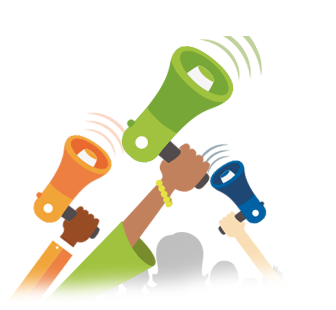
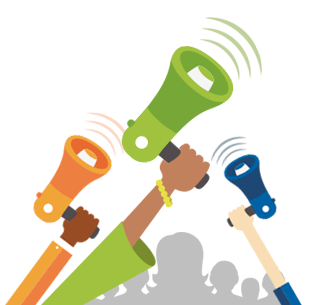
Ajustes no page-comece-debate.php

diff --git a/css/theme-propordebate.css b/css/theme-propordebate.css
@@ -1,1 +1,1 @@
-#hello{width:100%;background:url("../images/propor-debate/bg-gray.png") #c1c1c1 repeat}#bg-red{background:url("../images/propor-debate/bg-red.png") repeat;padding-top:50px;margin-bottom:0px}#bg-red h3{color:white;font-weight:400;margin-bottom:35px}#bg-red p{color:white;font-weight:400;font-size:20px}#bg-red i{color:white;font-size:13em;opacity:0.5;margin-bottom:30px}#featured-border-gray{background-color:white;padding-top:15px;margin-bottom:0px;border-top:2px solid #CCC;border-bottom:2px solid #CCC}#featured-border-gray h4,#featured-border-gray h3{color:#d9534f;margin-bottom:15px}#featured-border-gray p{color:#d9534f;font-weight:400;font-size:20px}#featured-border-gray i{color:#74cfae;font-size:8em;margin-top:60px}#featured-border-gray ul{margin-top:20px;line-height:32px;margin-bottom:40px}#featured-border-gray li:first-child{padding-left:4px;width:175px;border-radius:5px;color:white;background-color:#74cfae}#bgcolor2{background-color:#74cfae;padding-top:50px}#bgcolor2 h3{color:white}#bgcolor2 p{color:white;font-weight:400}.grid img{opacity:.7}.grid img:hover{opacity:1}.proposal{margin-bottom:30px;vertical-align:top;margin-right:30px;float:left;cursor:pointer;width:100%;border:1px solid #E7E7E7}.proposal figure figcaption{position:relative;z-index:10;padding:8px 18px 11px;background:#fff;text-align:left;color:#555}.proposal figure img{border:0;width:100%}.proposal-footer{background:linear-gradient(to bottom, rgba(255,255,255,0) 0, #fff 26%);border-radius:0 0 6px 6px;bottom:0;width:90%;position:absolute;padding-top:60px;margin-bottom:55px}.proposal-stats li{display:inline-block;margin-left:0}.proposal-stats li:first-child,.proposal-stats li:nth-child(2){margin-right:20px}.proposal-stats{padding-left:0px;font-size:13px}.proposal-vote-yes{color:#0f2105;font-weight:bold}.proposal-date figcaption .proposal-title{display:block;font-size:16px;line-height:33px;color:#0093d0;height:27px;width:85%;margin-bottom:5px;overflow:hidden}.proposal figcaption .proposal-details{display:block;font-size:13px;color:#555;height:253px;border-top:1px solid #dddddd;margin-bottom:5px;margin-top:10px;padding-top:8px}.proposal figcaption small{color:#545454;display:block}.proposal-vote-no,.days{color:#0f2105;font-weight:bold}.progress{background-color:#CC3300;height:5px}.balao{background:#d9534f;border-radius:15px;width:300px;height:150px;color:white;position:relative;text-align:center;padding-top:10px;border-right:3px solid white;border-top:2px solid white}.balao:after{content:"";width:0;height:0;position:absolute;border-left:20px solid transparent;border-right:20px solid transparent;border-top:20px solid #d9534f;bottom:-20px;left:20%}@media (max-width:992px){.balao{margin:0 auto 50px auto}}@media (max-width:768px){.balao{width:240px !important}}@media (max-width:480px){.balao{width:180px !important}}#form-proposal label{background-color:#ddd;padding:8px;border-radius:8px 0 0 8px;font-weight:normal}.green{font-weight:bold;color:#00CC00}.detail-box{padding:10px;border-radius:10px;border:1px solid #CCC;margin-bottom:20px}.detail-box:before,.detail-box:after{content:" ";display:table}.detail-box:after{clear:both}.detail-box .proposal-stats-label{margin-bottom:20px}.countdown{font-size:20px;padding-top:20px}
+#hello{background:url("../images/propor-debate/bg-gray.png") #c1c1c1 repeat}#hello #proponha{margin:0}@media (min-width:992px){#hello #proponha{height:347px;background:url("../images/propor-debate/debates-megafones.png") center bottom no-repeat}}@media (max-width:992px){#hello #discuss{padding-bottom:347px;background:url("../images/propor-debate/debates-megafones.png") center bottom no-repeat}}#bg-red{background:url("../images/propor-debate/bg-red.png") repeat;padding-top:50px;margin-bottom:0px}#bg-red h3{color:white;font-weight:400;margin-bottom:35px}#bg-red p{color:white;font-weight:400;font-size:20px}#bg-red i{color:white;font-size:13em;opacity:0.5;margin-bottom:30px}#featured-border-gray{background-color:white;padding-top:15px;margin-bottom:0px;border-top:2px solid #CCC;border-bottom:2px solid #CCC}#featured-border-gray h4,#featured-border-gray h3{color:#d9534f;margin-bottom:15px}#featured-border-gray p{color:#d9534f;font-weight:400;font-size:20px}#featured-border-gray i{color:#74cfae;font-size:8em;margin-top:60px}#featured-border-gray ul{margin-top:20px;line-height:32px;margin-bottom:40px}#featured-border-gray li:first-child{padding-left:4px;width:175px;border-radius:5px;color:white;background-color:#74cfae}#bgcolor2{background-color:#74cfae;padding-top:50px}#bgcolor2 h3{color:white}#bgcolor2 p{color:white;font-weight:400}.grid img{opacity:.7}.grid img:hover{opacity:1}.proposal{margin-bottom:30px;vertical-align:top;margin-right:30px;float:left;cursor:pointer;width:100%;border:1px solid #E7E7E7}.proposal figure figcaption{position:relative;z-index:10;padding:8px 18px 11px;background:#fff;text-align:left;color:#555}.proposal figure img{border:0;width:100%}.proposal-footer{background:linear-gradient(to bottom, rgba(255,255,255,0) 0, #fff 26%);border-radius:0 0 6px 6px;bottom:0;width:90%;position:absolute;padding-top:60px;margin-bottom:55px}.proposal-stats li{display:inline-block;margin-left:0}.proposal-stats li:first-child,.proposal-stats li:nth-child(2){margin-right:20px}.proposal-stats{padding-left:0px;font-size:13px}.proposal-vote-yes{color:#0f2105;font-weight:bold}.proposal-date figcaption .proposal-title{display:block;font-size:16px;line-height:33px;color:#0093d0;height:27px;width:85%;margin-bottom:5px;overflow:hidden}.proposal figcaption .proposal-details{display:block;font-size:13px;color:#555;height:253px;border-top:1px solid #dddddd;margin-bottom:5px;margin-top:10px;padding-top:8px}.proposal figcaption small{color:#545454;display:block}.proposal-vote-no,.days{color:#0f2105;font-weight:bold}.progress{background-color:#CC3300;height:5px}.balao{background:#d9534f;border-radius:15px;width:300px;height:150px;color:white;position:relative;text-align:center;padding-top:10px;border-right:3px solid white;border-top:2px solid white}.balao:after{content:"";width:0;height:0;position:absolute;border-left:20px solid transparent;border-right:20px solid transparent;border-top:20px solid #d9534f;bottom:-20px;left:20%}@media (max-width:992px){.balao{margin:0 auto 50px auto}}@media (max-width:768px){.balao{width:240px !important}}@media (max-width:480px){.balao{width:180px !important}}#form-proposal label{background-color:#ddd;padding:8px;border-radius:8px 0 0 8px;font-weight:normal}.green{font-weight:bold;color:#00CC00}.detail-box{padding:10px;border-radius:10px;border:1px solid #CCC;margin-bottom:20px}.detail-box:before,.detail-box:after{content:" ";display:table}.detail-box:after{clear:both}.detail-box .proposal-stats-label{margin-bottom:20px}.countdown{font-size:20px;padding-top:20px}

diff --git a/css/Less/theme/theme-propordebate.less b/css/Less/theme/theme-propordebate.less
@@ -2,34 +2,25 @@
 @import "../bootstrap/variables.less";
 @import "../bootstrap/mixins.less";
 #hello {
-    width: 100%;
+    //width: 100%;
     //padding-top: 40px;
     //padding-bottom: 70px;
     background: url("../images/propor-debate/bg-gray.png") #c1c1c1 repeat;
-    /*h2 {
-        font-size: 40px;
-        font-weight: 700;
-        letter-spacing: 3px;
-        color: #d9534f;
+    #proponha {
+        margin: 0;
+        @media(min-width: @screen-md) {
+            height: 347px;
+            background: url("../images/propor-debate/debates-megafones.png") center bottom no-repeat;
+        }
     }
-    h4 {
-        font-size: 20px;
+    #discuss {
+        @media(max-width: @screen-md) {
+            padding-bottom: 347px;
+            background: url("../images/propor-debate/debates-megafones.png") center bottom no-repeat;
+        }
     }
-    h3 {
-        color: #555;
-        font-weight: 400;
-        font-size: 30px;
-    }
-    p {
-        color: #555 font-size;
-    }
-    .panel {
-        background-color: transparent;
-        border: none;
-        box-shadow: none;
-    }*/
-
 }
+
 #bg-red {
     background: url("../images/propor-debate/bg-red.png") repeat;
     padding-top: 50px;
@@ -51,6 +42,7 @@
         margin-bottom: 30px;
     }
 }
+
 #featured-border-gray {
     background-color: white;
     padding-top: 15px;
@@ -84,6 +76,7 @@
         background-color: #74cfae;
     }
 }
+
 #bgcolor2 {
     background-color: #74cfae;
     padding-top: 50px;
@@ -95,12 +88,14 @@
         font-weight: 400;
     }
 }
+
 .grid img {
     opacity: .7;
     &:hover {
         opacity: 1;
     }
 }
+
 .proposal {
     margin-bottom: 30px;
     vertical-align: top;
@@ -110,7 +105,6 @@
     width: 100%;
     border: 1px solid #E7E7E7;
     figure {
-
         figcaption {
             position: relative;
             z-index: 10;
@@ -174,14 +168,18 @@
         display: block;
     }
 }
-.proposal-vote-no, .days {
+
+.proposal-vote-no,
+.days {
     color: #0f2105;
     font-weight: bold;
 }
+
 .progress {
     background-color: #CC3300;
     height: 5px;
 }
+
 .balao {
     background: #d9534f;
     border-radius: 15px;
@@ -220,16 +218,19 @@
     border-radius: 10px;
     margin-top: 10px;
 }*/
+
 #form-proposal label {
     background-color: #ddd;
     padding: 8px;
     border-radius: 8px 0 0 8px;
     font-weight: normal;
 }
+
 .green {
     font-weight: bold;
     color: #00CC00;
 }
+
 .detail-box {
     padding: 10px;
     border-radius: 10px;
@@ -240,6 +241,7 @@
         margin-bottom: 20px;
     }
 }
+
 .countdown {
     font-size: 20px;
     padding-top: 20px;

diff --git a/css/Less/theme/theme-hacks.less b/css/Less/theme/theme-hacks.less
@@ -1,0 +1,17 @@
+// Faz funcionar a responsividade dos vídos do youtube
+.videowrapper {
+    float: none;
+    clear: both;
+    width: 100%;
+    position: relative;
+    padding-bottom: 56.25%;
+    padding-top: 25px;
+    height: 0;
+}
+.videowrapper iframe {
+    position: absolute;
+    top: 0;
+    left: 0;
+    width: 100%;
+    height: 100%;
+}

diff --git a/page-comece-debate.php b/page-comece-debate.php
@@ -11,15 +11,14 @@
 <!-- /destaque-border-gray -->
 <div id="hello">
   <div class="container text-center">
-    <div class="row pt-sm pb-sm">
+    <div class="row">
       <div class="col-md-5">
-        <h1 class="h4 font-amatic red"><strong>Proponha também um debate!</strong></h1>
-        <img src="<?php echo get_stylesheet_directory_uri(); ?>/images/propor-debate/debates-megafones.png" class="img-adptive" alt="Proteção de Dados Pessoais">
+        <h1 class="h4 font-amatic red" id="proponha"><strong>Proponha também um debate!</strong></h1>
       </div>
       <div class="col-md-7">
         <div class="mt-lg">
           <h3 class="">Você tem algum assunto que possa ser discutido pela sociedade?</h3>
-          <div class="row mt-lg">
+          <div class="row mt-lg" id="discuss">
             <div class="col-sm-5">
               <a href="#" class="btn btn-danger btn-lg font-roboto width-full">QUERO PROPOR</a>
               <p class="mt-sm"><strong>Faça sua ideia de debate ser votada também!</strong></p>
@@ -211,7 +210,7 @@
           <figcaption>
           <h5 class="font-roboto">Título da proposta</h5>
           <small>Nome do criador</small>
-          <span class="proposal-details gradient-mesh">Lorem Ipsum is simply dummy text of the printing and typesetting industry. Lorem Ipsum has been the industry's standard dummy text ever.Lorem Ipsum is simply dummy text of the printing and typesetting industry. Lorem Ipsum has been the industry's standard dummy text ever  dummy text ever.</span>
+          <span class="proposal-details">Lorem Ipsum is simply dummy text of the printing and typesetting industry. Lorem Ipsum has been the industry's standard dummy text ever.Lorem Ipsum is simply dummy text of the printing and typesetting industry. Lorem Ipsum has been the industry's standard dummy text ever  dummy text ever.</span>
           <div class="proposal-footer">
             <small>Resultado parcial da votação:</small>
             <div class="progress">
